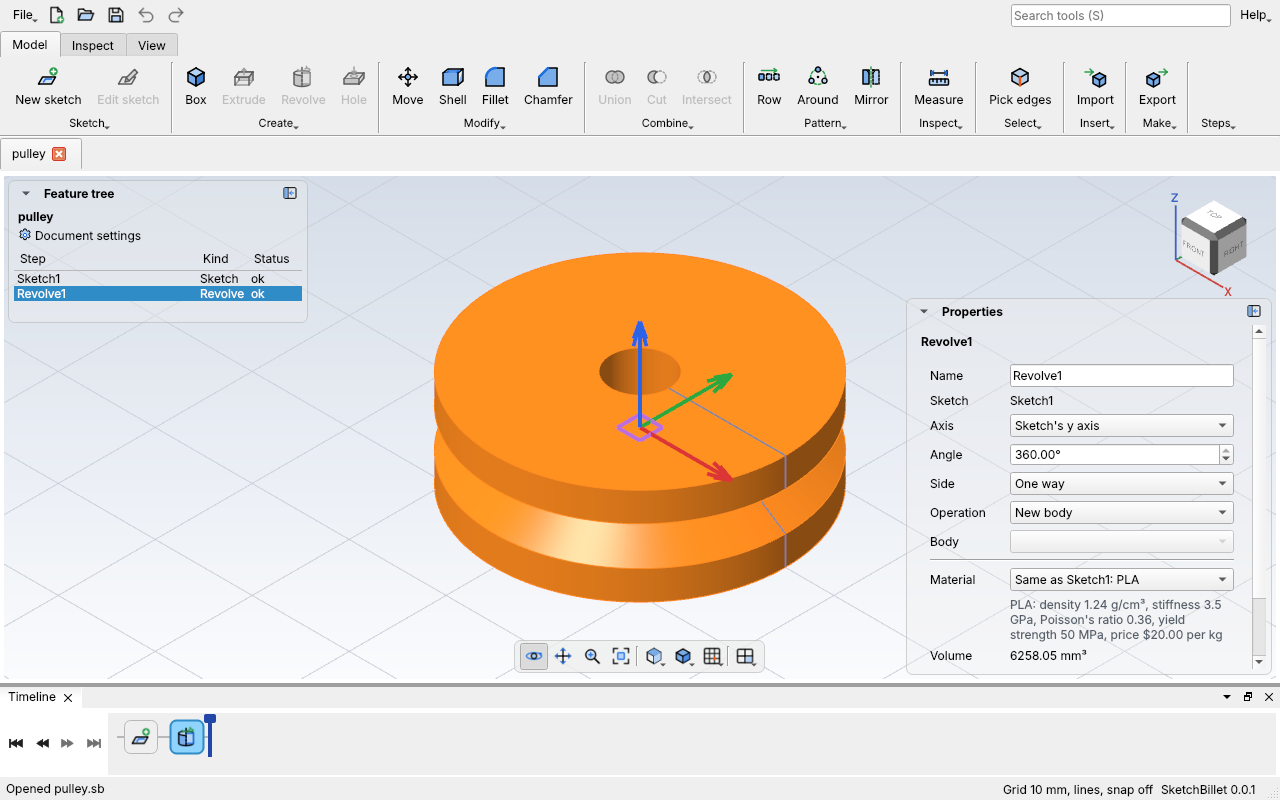
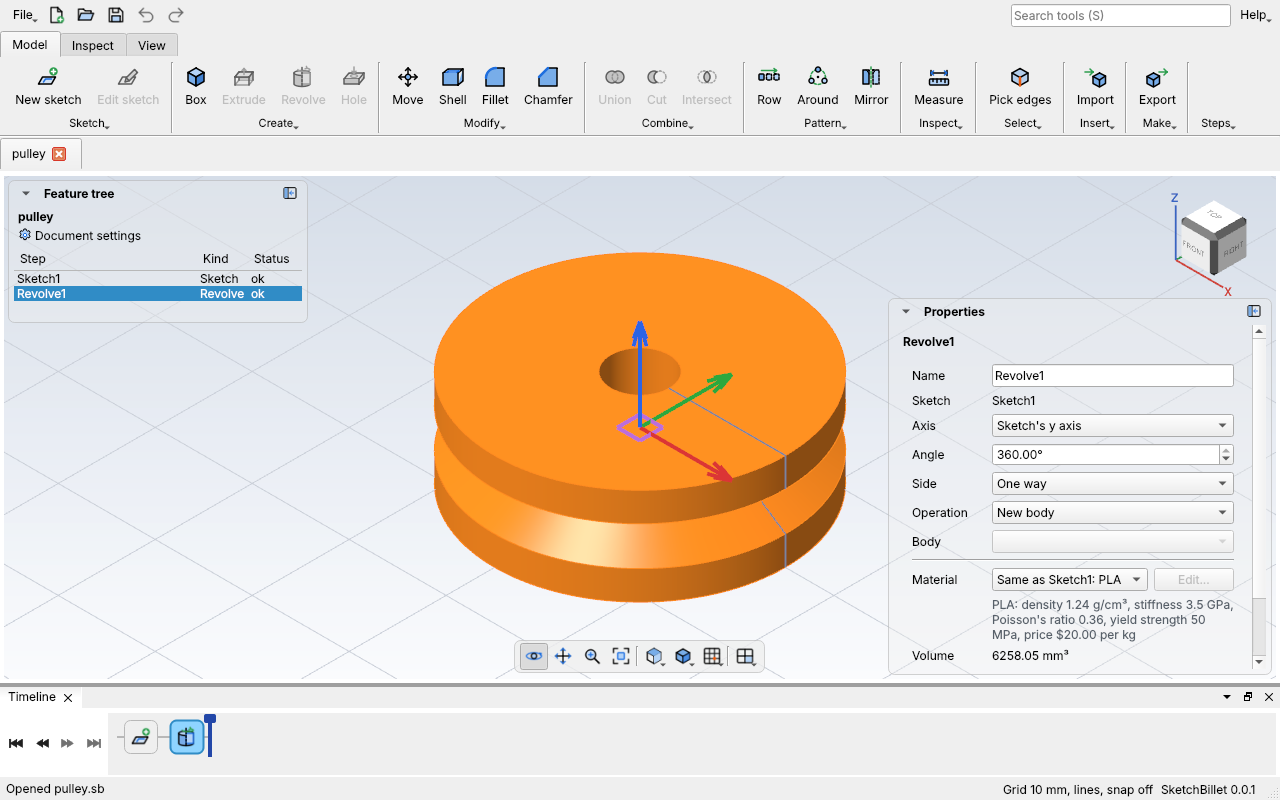
Edit a material of your own: its color, density and price
Properties gets an Edit... button beside the Material list. For a body
made of one of the design's own materials, it opens the material window
filled in with the material as it is; OK changes it (DefineMaterialCommand)
for every body made of it, and Undo puts it back. A material keeps its
name. For SketchBillet's own materials the button is greyed out, and its
tip says to pick New material... instead.

The New material window is now askMaterial(), shared by both, with object
names so a test drives it (and the color picker) for the first time.

Pictures that show Properties are rendered again; their crops start
further left, as the panel is a little wider with the button.

Claude-Session: https://claude.ai/code/session_01Lv5cQUVbfQ1HjNSJ67C2eP

Changed region(s): [[0.7188, 0.7188, 0.9688, 0.8438], [0.7188, 0.4375, 0.8438, 0.6875], [0.6875, 0.375, 0.7812, 0.4375]]

diff --git a/plugins/properties/PropertiesPlugin.cpp b/plugins/properties/PropertiesPlugin.cpp
@@ -77,13 +77,27 @@ QString massText(double grams) {
                         : QObject::tr("%1 kg").arg(grams / 1000, 0, 'f', 3);
 }
 
-// Asks for a new material's numbers. Returns false if cancelled.
-bool askNewMaterial(QWidget* parent, model::Material& m) {
+// Asks for a material's numbers: a new one's (`editing` false), or changes to
+// `m`, one of the design's own (its name stays). Returns false if cancelled.
+// Object names, for tests: the window "sb.properties.materialdialog", and its
+// boxes "name", "density", "color", "youngs", "poisson", "yield" and "price".
+bool askMaterial(QWidget* parent, model::Material& m, bool editing) {
     QDialog dialog(parent);
-    dialog.setWindowTitle(QObject::tr("New material"));
+    dialog.setObjectName(QStringLiteral("sb.properties.materialdialog"));
+    dialog.setWindowTitle(editing ? QObject::tr("Edit %1").arg(QString::fromStdString(m.name))
+                                  : QObject::tr("New material"));
     auto* form = new QFormLayout(&dialog);
     auto* name = new QLineEdit(&dialog);
+    name->setObjectName(QStringLiteral("name"));
     name->setPlaceholderText(QObject::tr("For example: Blue PETG"));
+    if (editing) {
+        // Changing the name would make another material: New material is for that.
+        name->setText(QString::fromStdString(m.name));
+        name->setReadOnly(true);
+        name->setToolTip(
+            QObject::tr("A material keeps its name. To make one with another name, pick New "
+                        "material... in the Material list."));
+    }
     auto number = [&dialog](double max, int decimals, const QString& suffix) {
         auto* s = new QDoubleSpinBox(&dialog);
         s->setRange(0, max);
@@ -93,14 +107,26 @@ bool askNewMaterial(QWidget* parent, model::Material& m) {
         return s;
     };
     auto* density = number(25, 3, QObject::tr(" g/cm³"));
-    density->setValue(1.24);
+    density->setObjectName(QStringLiteral("density"));
+    density->setValue(editing ? m.density : 1.24);
     auto* youngs = number(1000, 2, QObject::tr(" GPa"));
+    youngs->setObjectName(QStringLiteral("youngs"));
     auto* poisson = number(0.5, 3, QString());
+    poisson->setObjectName(QStringLiteral("poisson"));
     auto* yield = number(5000, 0, QObject::tr(" MPa"));
+    yield->setObjectName(QStringLiteral("yield"));
     auto* cost = number(100000, 2, QObject::tr(" per kg"));
+    cost->setObjectName(QStringLiteral("price"));
     cost->setPrefix(QStringLiteral("$"));
-    QColor color(120, 170, 220);
+    if (editing) {
+        youngs->setValue(m.youngsModulus);
+        poisson->setValue(m.poissonsRatio);
+        yield->setValue(m.yieldStrength);
+        cost->setValue(m.costPerKg);
+    }
+    QColor color = editing ? QColor(m.color.r, m.color.g, m.color.b) : QColor(120, 170, 220);
     auto* colorButton = new QPushButton(&dialog);
+    colorButton->setObjectName(QStringLiteral("color"));
     auto showColor = [colorButton, &color] {
         colorButton->setText(color.name());
         colorButton->setStyleSheet(QStringLiteral("background: %1").arg(color.name()));
@@ -123,7 +149,7 @@ bool askNewMaterial(QWidget* parent, model::Material& m) {
     QObject::connect(buttons, &QDialogButtonBox::accepted, &dialog, &QDialog::accept);
     QObject::connect(buttons, &QDialogButtonBox::rejected, &dialog, &QDialog::reject);
     if (dialog.exec() != QDialog::Accepted) return false;
-    m.name = name->text().trimmed().toStdString();
+    if (!editing) m.name = name->text().trimmed().toStdString();
     m.density = density->value();
     m.color = {static_cast<std::uint8_t>(color.red()), static_cast<std::uint8_t>(color.green()),
                static_cast<std::uint8_t>(color.blue())};
@@ -1402,7 +1428,14 @@ private:
         material->setObjectName(QStringLiteral("material"));
         material->setToolTip(
             tr("What this step's body is made of. It sets the mass, weight, cost and color."));
-        form->addRow(tr("Material"), material);
+        auto* edit = new QPushButton(tr("Edit..."), form_);
+        edit->setObjectName(QStringLiteral("editmaterial"));
+        auto* row = new QHBoxLayout;
+        row->setContentsMargins(0, 0, 0, 0);
+        row->addWidget(material, 1);
+        row->addWidget(edit);
+        form->addRow(tr("Material"), row);
+        connect(edit, &QPushButton::clicked, this, [this] { editMaterial(); });
         auto* info = new QLabel(form_);
         info->setObjectName(QStringLiteral("materialinfo"));
         info->setWordWrap(true);
@@ -1432,7 +1465,7 @@ private:
             }
         });
 
-        updaters_.push_back([this, material, info, volume, mass, cost](const model::Feature& g) {
+        updaters_.push_back([this, material, edit, info, volume, mass, cost](const model::Feature& g) {
             const auto* doc = design();
             if (!doc) return;
             // The first item: what the body gets when nothing is picked for it.
@@ -1459,6 +1492,15 @@ private:
             material->setCurrentIndex(at < 0 ? 0 : at);
 
             const auto& m = doc->materialOf(g.id());
+            // Only the design's own materials can be changed; SketchBillet's stay as they are.
+            edit->setEnabled(!m.builtin);
+            edit->setToolTip(m.builtin ? tr("%1 is one of SketchBillet's own materials, so it can't be "
+                                            "changed. To use other numbers or another color, pick New "
+                                            "material... in the list.")
+                                             .arg(qs(m.name))
+                                       : tr("Change %1's color, density or price. Every body made of "
+                                            "%1 changes too.")
+                                             .arg(qs(m.name)));
             auto known = [](double v, const QString& text) { return v > 0 ? text : tr("unknown"); };
             info->setText(
                 tr("%1: density %2 g/cm³, stiffness %3, Poisson's ratio %4, yield strength %5, price %6")
@@ -1500,9 +1542,24 @@ private:
         schedule();
     }
 
+    // Changes the picked body's material (one of the design's own), for every body made of it.
+    void editMaterial() {
+        const auto* f = selected();
+        const auto* doc = design();
+        if (!f || !doc) return;
+        model::Material m = doc->materialOf(f->id());
+        if (m.builtin) return;
+        const model::Material was = m;
+        if (!askMaterial(this, m, true) || m == was) return;
+        auto problems = ctx_.documents().execute(ctx_.selection().doc(),
+                                                 std::make_unique<model::DefineMaterialCommand>(m));
+        if (!problems.empty()) ui_.showProblems(problems);
+        schedule();
+    }
+
     void newMaterial() {
         model::Material m;
-        if (!askNewMaterial(this, m)) {
+        if (!askMaterial(this, m, false)) {
             schedule();  // put the combo back
             return;
         }

diff --git a/tests/app/test_shell.cpp b/tests/app/test_shell.cpp
@@ -8,8 +8,10 @@
 #include <QApplication>
 #include <QCheckBox>
 #include <QClipboard>
+#include <QColorDialog>
 #include <QComboBox>
 #include <QCompleter>
+#include <QDialog>
 #include <QDoubleSpinBox>
 #include <QFile>
 #include <QGuiApplication>
@@ -32,6 +34,7 @@
 #include <QTabBar>
 #include <QTableWidget>
 #include <QTemporaryDir>
+#include <QTimer>
 #include <QToolBar>
 #include <QToolButton>
 #include <QTreeWidget>
@@ -2599,6 +2602,105 @@ TEST_CASE("in a short window, Properties scrolls instead of squeezing its rows t
     auto* scroll = qobject_cast<QScrollArea*>(app.properties());  // the panel is the scroll area
     REQUIRE(scroll);
     CHECK(scroll->verticalScrollBar()->maximum() > 0);  // the rest is there to scroll to
+}
+
+namespace {
+
+// Does `fill` to the next window of this kind that opens (a QDialog named
+// `name`, or a QColorDialog when `name` is empty) once it's open, as a student
+// would; the test then does what opens it.
+template <typename F>
+void whenOpen(const QString& name, F fill) {
+    auto* timer = new QTimer;
+    QObject::connect(timer, &QTimer::timeout, [timer, name, fill] {
+        auto* open = qobject_cast<QDialog*>(QApplication::activeModalWidget());
+        const bool match = open && (name.isEmpty() ? qobject_cast<QColorDialog*>(open) != nullptr
+                                                   : open->objectName() == name);
+        if (!match) return;
+        timer->stop();
+        timer->deleteLater();
+        fill(open);
+    });
+    timer->start(10);
+}
+
+// Picks `color` in the next color window, and clicks OK.
+void pickColor(QColor color) {
+    whenOpen(QString(), [color](QDialog* d) {
+        auto* picker = qobject_cast<QColorDialog*>(d);
+        picker->setCurrentColor(color);
+        picker->accept();
+    });
+}
+
+const QString kMaterialWindow = QStringLiteral("sb.properties.materialdialog");
+
+}  // namespace
+
+TEST_CASE("make a material with its own color, then change it with Edit", "[app][materials]") {
+    App app;
+    app.click("sb.modeling.cylinder");  // picked: Properties shows its material
+    auto* material = app.field<QComboBox>("material");
+    auto* edit = app.field<QPushButton>("editmaterial");
+    REQUIRE(material);
+    REQUIRE(edit);
+    // PLA is one of SketchBillet's own materials: it can't be changed, and the tip says what to do.
+    CHECK_FALSE(edit->isEnabled());
+    CHECK(edit->toolTip().contains(QStringLiteral("New material")));
+    const FeatureId cylinder = app.doc().featureAt(0).id();
+
+    // New material...: a name, a density and a color.
+    whenOpen(kMaterialWindow, [](QDialog* d) {
+        CHECK(d->windowTitle() == QStringLiteral("New material"));
+        d->findChild<QLineEdit*>(QStringLiteral("name"))->setText(QStringLiteral("Blue PETG"));
+        d->findChild<QDoubleSpinBox*>(QStringLiteral("density"))->setValue(1.27);
+        pickColor(QColor(20, 60, 230));
+        d->findChild<QPushButton*>(QStringLiteral("color"))->click();  // returns once a color is picked
+        d->accept();
+    });
+    emit material->activated(material->findData(QString::fromLatin1("\x01new")));
+    settle();
+    const auto& made = app.doc().materialOf(cylinder);
+    CHECK(made.name == "Blue PETG");
+    CHECK(made.density == Catch::Approx(1.27));
+    CHECK(made.color == model::Color{20, 60, 230});
+
+    // Edit...: the window shows the material as it is; change its color and price.
+    material = app.field<QComboBox>("material");
+    edit = app.field<QPushButton>("editmaterial");
+    REQUIRE(edit->isEnabled());
+    whenOpen(kMaterialWindow, [](QDialog* d) {
+        CHECK(d->windowTitle() == QStringLiteral("Edit Blue PETG"));
+        auto* name = d->findChild<QLineEdit*>(QStringLiteral("name"));
+        CHECK(name->text() == QStringLiteral("Blue PETG"));
+        CHECK(name->isReadOnly());  // a material keeps its name
+        CHECK(d->findChild<QDoubleSpinBox*>(QStringLiteral("density"))->value() == Catch::Approx(1.27));
+        d->findChild<QDoubleSpinBox*>(QStringLiteral("price"))->setValue(25);
+        pickColor(QColor(230, 40, 30));
+        d->findChild<QPushButton*>(QStringLiteral("color"))->click();
+        d->accept();
+    });
+    edit->click();
+    settle();
+    REQUIRE(app.doc().customMaterials().size() == 1);  // changed, not added
+    const auto& changed = app.doc().materialOf(cylinder);
+    CHECK(changed.name == "Blue PETG");
+    CHECK(changed.color == model::Color{230, 40, 30});
+    CHECK(changed.costPerKg == Catch::Approx(25));
+    CHECK(changed.density == Catch::Approx(1.27));
+    CHECK(app.doc().undoLabel() == "Change material Blue PETG");
+
+    // Cancel changes nothing; Undo puts the old color back.
+    whenOpen(kMaterialWindow, [](QDialog* d) {
+        d->findChild<QDoubleSpinBox*>(QStringLiteral("density"))->setValue(9);
+        d->reject();
+    });
+    app.field<QPushButton>("editmaterial")->click();
+    settle();
+    CHECK(app.doc().materialOf(cylinder).density == Catch::Approx(1.27));
+    app.shell->undoAction()->trigger();
+    settle();
+    CHECK(app.doc().materialOf(cylinder).color == model::Color{20, 60, 230});
 }
 
 TEST_CASE("opening a file that isn't a design explains why", "[app]") {

diff --git a/docs/user-guide/materials.md b/docs/user-guide/materials.md
@@ -89,8 +89,16 @@ For a filament or stock that isn't in the list, add your own:
   color, and fill in the other numbers if you know them.
 - **With `sketchbillet_cli`:** run [`material.define`](../cli/commands.md#materialdefine).
 
+To change one of your materials later, pick a body made of it and click **Edit...**
+next to the Material list. The window shows the material's numbers and color as
+they are: change any of them and click OK. Every body made of that material
+changes, and Undo puts it back. A material keeps its name; for another name, make a
+new one. SketchBillet's own materials, like PLA, can't be changed, so **Edit...** is
+greyed out for them: pick **New material...** instead.
+
 Your materials are saved in the design, so they travel with the file. Defining a
-material with the same name again changes it everywhere it's used.
+material with the same name again (with `material.define`) changes it everywhere
+it's used.
 [`material.delete`](../cli/commands.md#materialdelete) removes one no step uses.
 
 ## Tips
